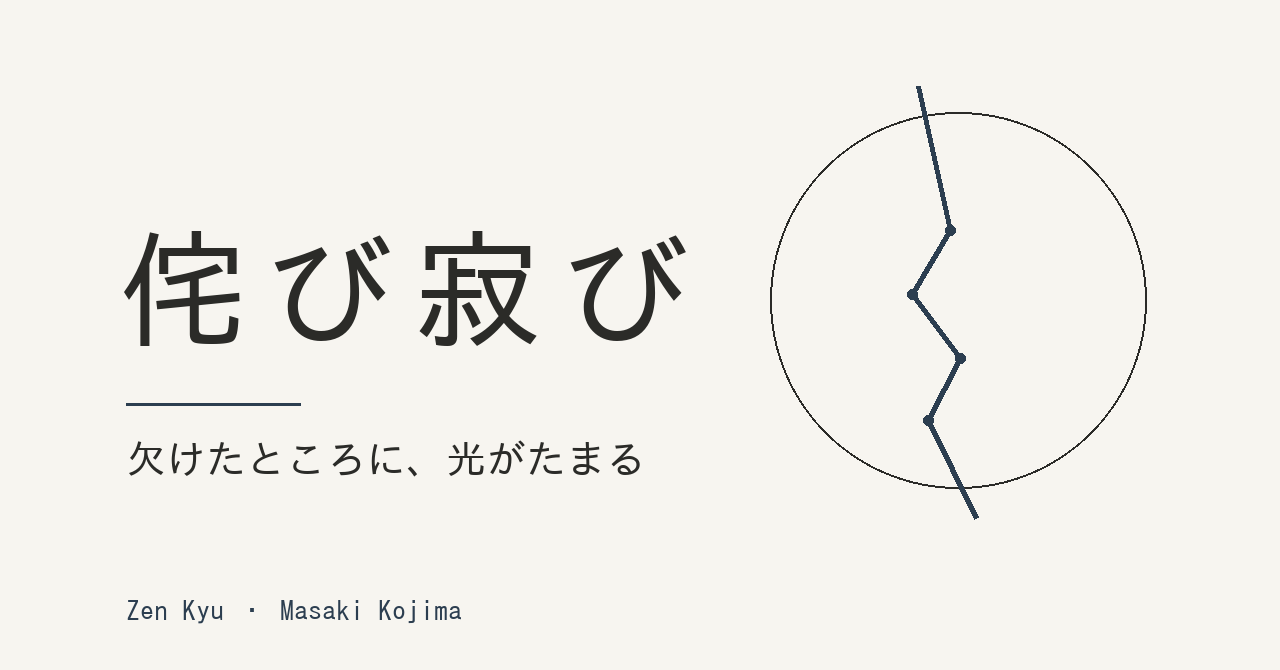
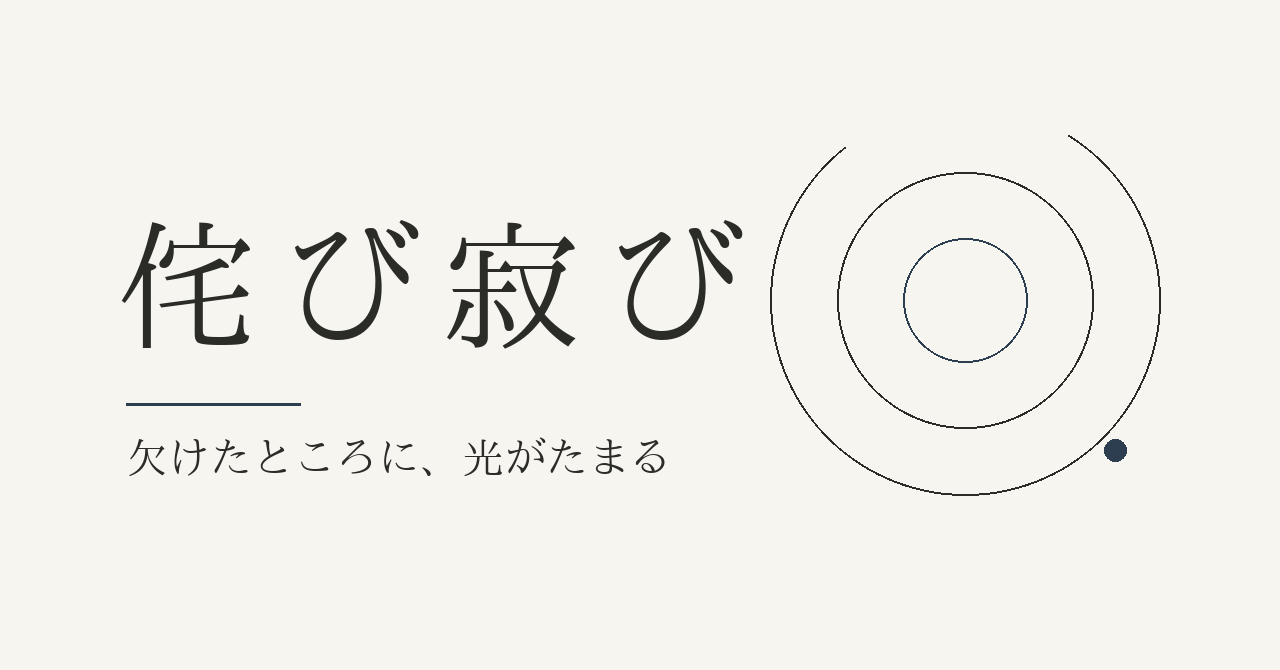
カバーを明朝体・幾何学モチーフに刷新し節気シリーズ用を追加
- covers/wabisabi_cover.png: 著者名を削除、IPA明朝、同心円+非対称の幾何学モチーフに刷新
- covers/sekki_risshu_cover.png: 節気シリーズ用カバー(立秋)。シリーズ見出し+24分割の年輪で別ラインナップと差別化
- scripts/covers.py: カバー生成スクリプト(wabisabi / sekki <slug>、1280×670・ブランド3色)
- data/sekki_schedule.tsv: よみ/カバー一言の列を追加(6列)
- SEKKI_SERIES.md: カバー仕様と列定義を追記

Claude-Session: https://claude.ai/code/session_01NakVPK8fn2WfCkxdftS1Ry

diff --git a/scripts/covers.py b/scripts/covers.py
@@ -1,0 +1,122 @@
+#!/usr/bin/env python3
+"""note カバー生成(1280x670・ブランド3色・IPA明朝)。
+
+使い方:
+  python3 scripts/covers.py wabisabi
+  python3 scripts/covers.py sekki <slug>     # 例: risshu(data/sekki_schedule.tsv を参照)
+
+ブランド3色: 背景 #F7F5F0 / 文字 #2B2B28 / アクセント #2C3E50。
+フォントは IPA明朝(なければ IPAゴシックに自動フォールバック)。
+"""
+import math, os, sys
+
+from PIL import Image, ImageDraw, ImageFont
+
+W, H = 1280, 670
+BG = (247, 245, 240)
+INK = (43, 43, 40)
+ACCENT = (44, 62, 80)
+ROOT = os.path.dirname(os.path.dirname(os.path.abspath(__file__)))
+
+FONT_CANDIDATES = [
+    "/usr/share/fonts/opentype/ipafont-mincho/ipam.ttf",   # IPA明朝(第一候補)
+    "/usr/share/fonts/truetype/fonts-japanese-mincho.ttf",
+    "/usr/share/fonts/opentype/ipafont-gothic/ipag.ttf",   # ゴシック(代替)
+    "/usr/share/fonts/truetype/fonts-japanese-gothic.ttf",
+]
+
+def _font_path():
+    for p in FONT_CANDIDATES:
+        if os.path.exists(p):
+            return p
+    raise SystemExit("日本語フォントが見つかりません(IPA明朝を推奨: apt-get install -y fonts-ipafont-mincho)")
+
+FONT = _font_path()
+
+def font(sz):
+    return ImageFont.truetype(FONT, sz)
+
+def draw_spaced(d, text, x, y, f, fill, spacing):
+    for ch in text:
+        d.text((x, y), ch, font=f, fill=fill)
+        bb = d.textbbox((0, 0), ch, font=f)
+        x += (bb[2] - bb[0]) + spacing
+    return x
+
+def _save(img, name):
+    out = os.path.join(ROOT, "covers", name)
+    os.makedirs(os.path.dirname(out), exist_ok=True)
+    img.save(out)
+    assert Image.open(out).size == (W, H), "サイズが 1280x670 でない"
+    print("saved", out, Image.open(out).size)
+    return out
+
+# ---- 侘び寂び(有料・単発): 同心円 + わずかな非対称 ----
+def wabisabi():
+    img = Image.new("RGB", (W, H), BG)
+    d = ImageDraw.Draw(img)
+    cx, cy = 965, 300
+    d.arc([cx-195, cy-195, cx+195, cy+195], start=-58, end=232, fill=INK, width=2)
+    d.ellipse([cx-128, cy-128, cx+128, cy+128], outline=INK, width=2)
+    d.ellipse([cx-62, cy-62, cx+62, cy+62], outline=ACCENT, width=2)
+    d.ellipse([cx+150-11, cy+150-11, cx+150+11, cy+150+11], fill=ACCENT)
+    draw_spaced(d, "侘び寂び", 118, 214, font(140), INK, 22)
+    d.line([(126, 404), (300, 404)], fill=ACCENT, width=3)
+    d.text((126, 436), "欠けたところに、光がたまる", font=font(42), fill=INK)
+    return _save(img, "wabisabi_cover.png")
+
+# ---- 二十四節気シリーズ(無料・連載): シリーズ見出し + 24分割の年輪 ----
+CYCLE = ["立春","雨水","啓蟄","春分","清明","穀雨","立夏","小満","芒種","夏至","小暑","大暑",
+         "立秋","処暑","白露","秋分","寒露","霜降","立冬","小雪","大雪","冬至","小寒","大寒"]
+
+def _load_schedule():
+    rows = {}
+    with open(os.path.join(ROOT, "data", "sekki_schedule.tsv"), encoding="utf-8") as fh:
+        for line in fh:
+            if not line.strip() or line.lstrip().startswith("#"):
+                continue
+            c = line.rstrip("\n").split("\t")
+            # slug, 節気, よみ, 概算日, カバー一言, 季節メモ
+            rows[c[0]] = {"term": c[1], "yomi": c[2], "date": c[3], "phrase": c[4]}
+    return rows
+
+def sekki(slug):
+    row = _load_schedule()[slug]
+    term, yomi, phrase = row["term"], row["yomi"], row["phrase"]
+    img = Image.new("RGB", (W, H), BG)
+    d = ImageDraw.Draw(img)
+    # シリーズ帯(侘び寂びには無い差別化)
+    d.line([(70, 74), (1210, 74)], fill=ACCENT, width=2)
+    draw_spaced(d, "二十四節気", 70, 92, font(34), ACCENT, 10)
+    d.text((70, 150), "── 季節のことば", font=font(24), fill=INK)
+    # 24分割の年輪(立春を上、時計回り。該当節気をアクセント)
+    cx, cy = 980, 360
+    R_out, R_in, R_hi = 182, 150, 128
+    d.ellipse([cx-R_out, cy-R_out, cx+R_out, cy+R_out], outline=INK, width=1)
+    idx = CYCLE.index(term)
+    for i in range(24):
+        th = math.radians(i * 15)
+        sx, sy = cx + R_in*math.sin(th), cy - R_in*math.cos(th)
+        ex, ey = cx + R_out*math.sin(th), cy - R_out*math.cos(th)
+        if i == idx:
+            hx, hy = cx + R_hi*math.sin(th), cy - R_hi*math.cos(th)
+            d.line([(hx, hy), (ex, ey)], fill=ACCENT, width=5)
+            d.ellipse([ex-9, ey-9, ex+9, ey+9], fill=ACCENT)
+        else:
+            d.line([(sx, sy), (ex, ey)], fill=INK, width=2)
+    # 節気名(主役)
+    draw_spaced(d, term, 74, 300, font(150), INK, 20)
+    d.line([(80, 496), (250, 496)], fill=ACCENT, width=3)
+    d.text((80, 522), f"{yomi} ── {phrase}", font=font(36), fill=INK)
+    return _save(img, f"sekki_{slug}_cover.png")
+
+def main(argv):
+    if len(argv) >= 2 and argv[1] == "wabisabi":
+        wabisabi()
+    elif len(argv) >= 3 and argv[1] == "sekki":
+        sekki(argv[2])
+    else:
+        raise SystemExit(__doc__)
+
+if __name__ == "__main__":
+    main(sys.argv)

diff --git a/SEKKI_SERIES.md b/SEKKI_SERIES.md
@@ -23,8 +23,17 @@
 - 既出テーマ(雨系/華系/吽・阿吽、および禅語シリーズ既出)と重複しない。
 
 ## ファイル規約
-- 保存先: `articles/sekki_<slug>_note.md`(slug は `data/sekki_schedule.tsv` 参照。例 `articles/sekki_risshu_note.md`)。
-- **同じ slug の記事が既にあれば再生成しない**(重複防止)。
+- 記事: `articles/sekki_<slug>_note.md`(slug は `data/sekki_schedule.tsv` 参照。例 `articles/sekki_risshu_note.md`)。
+- カバー: `covers/sekki_<slug>_cover.png`。生成は `python3 scripts/covers.py sekki <slug>`。
+- **同じ slug の記事/カバーが既にあれば再生成しない**(重複防止)。
+
+## カバー(節気シリーズ専用デザイン・侘び寂び等と差別化)
+- 侘び寂び(有料・単発)とは別ラインナップと分かる意匠にする。
+- 上部に「二十四節気 ── 季節のことば」のシリーズ見出し、節気名を主役、**24分割の年輪**(立春が上・時計回り)で該当節気をアクセント表示。
+- note 推奨比 **1280×670**、ブランド3色、IPA明朝。`scripts/covers.py` が `data/sekki_schedule.tsv` の「よみ/カバー一言」を読んで生成する。
+
+## スケジュール表(`data/sekki_schedule.tsv`)の列
+`slug` / `節気` / `よみ` / `概算日(YYYY-MM-DD)` / `カバー一言` / `季節メモ・切り口`(タブ区切り、`#` はコメント)。
 
 ## ハッシュタグ(日本語・投稿数は note 検索で要確認)
 - 共通枠: `#二十四節気` + 記事固有(節気名)+ 暮らし系(`#季節のことば` `#暮らし` など)。
